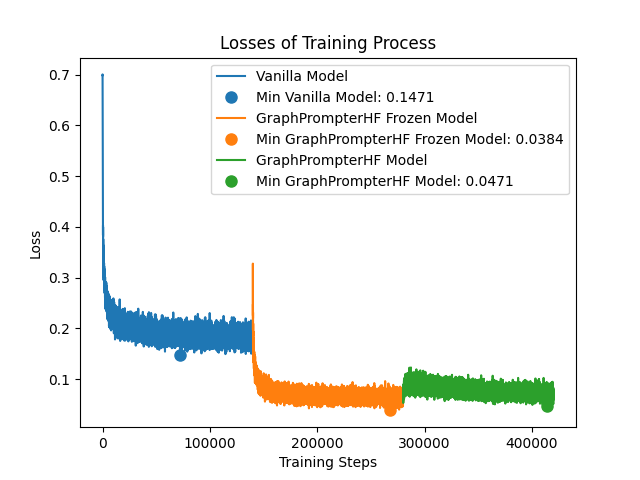
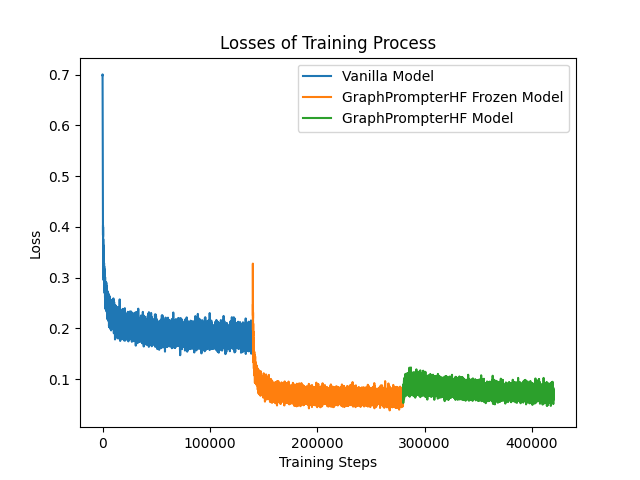
fix losses plots

diff --git a/explainability_module.py b/explainability_module.py
@@ -78,22 +78,31 @@ class ExplainabilityModule:
             for entry in vanilla_training_process["log_history"]
             if "loss" in entry
         ]
+        min_vanilla_losses = min(vanilla_losses)
+
+        graph_prompter_frozen_losses_ = [
+            entry["loss"]
+            for entry in graph_prompter_hf_frozen_training_process["log_history"]
+            if "loss" in entry
+        ]
+        min_graph_prompter_frozen_losses = min(graph_prompter_frozen_losses_)
         graph_prompter_frozen_losses = [vanilla_losses[-1]]
-        graph_prompter_frozen_losses.extend(
-            [
-                entry["loss"]
-                for entry in graph_prompter_hf_frozen_training_process["log_history"]
-                if "loss" in entry
-            ]
-        )
+        graph_prompter_frozen_losses.extend(graph_prompter_frozen_losses_)
+
+        graph_prompter_losses_ = [
+            entry["loss"]
+            for entry in graph_prompter_hf_training_process["log_history"]
+            if "loss" in entry
+        ]
+        min_graph_prompter_losses = min(graph_prompter_frozen_losses_)
         graph_prompter_losses = [graph_prompter_frozen_losses[-1]]
-        graph_prompter_losses.extend(
-            [
-                entry["loss"]
-                for entry in graph_prompter_hf_training_process["log_history"]
-                if "loss" in entry
-            ]
+        graph_prompter_losses.extend(graph_prompter_losses_)
+
+        print(f"Min Vanilla model loss is {min_vanilla_losses}.")
+        print(
+            f"Min GraphPrompterHF frozen model loss is {min_graph_prompter_frozen_losses}."
         )
+        print(f"Min GraphPrompterHF model loss is {min_graph_prompter_losses}.")
         # Extract steps
         vanilla_steps = [
             entry["step"]
@@ -130,18 +139,7 @@ class ExplainabilityModule:
 
         def plot(losses: List[float], steps: list[float], label: str):
             # Plot the loss curve
-            (line,) = plt.plot(steps, losses, label=label)
-            color = line.get_color()
-            min_loss = min(losses)
-            min_loss_index = steps[losses.index(min_loss)]
-            plt.plot(
-                min_loss_index,
-                min_loss,
-                "o",
-                color=color,
-                label=f"Min {label}: {min_loss:.4f}",
-                markersize=8,
-            )
+            plt.plot(steps, losses, label=label)
 
         plot(vanilla_losses, vanilla_steps, vanilla_label)
         plot(
